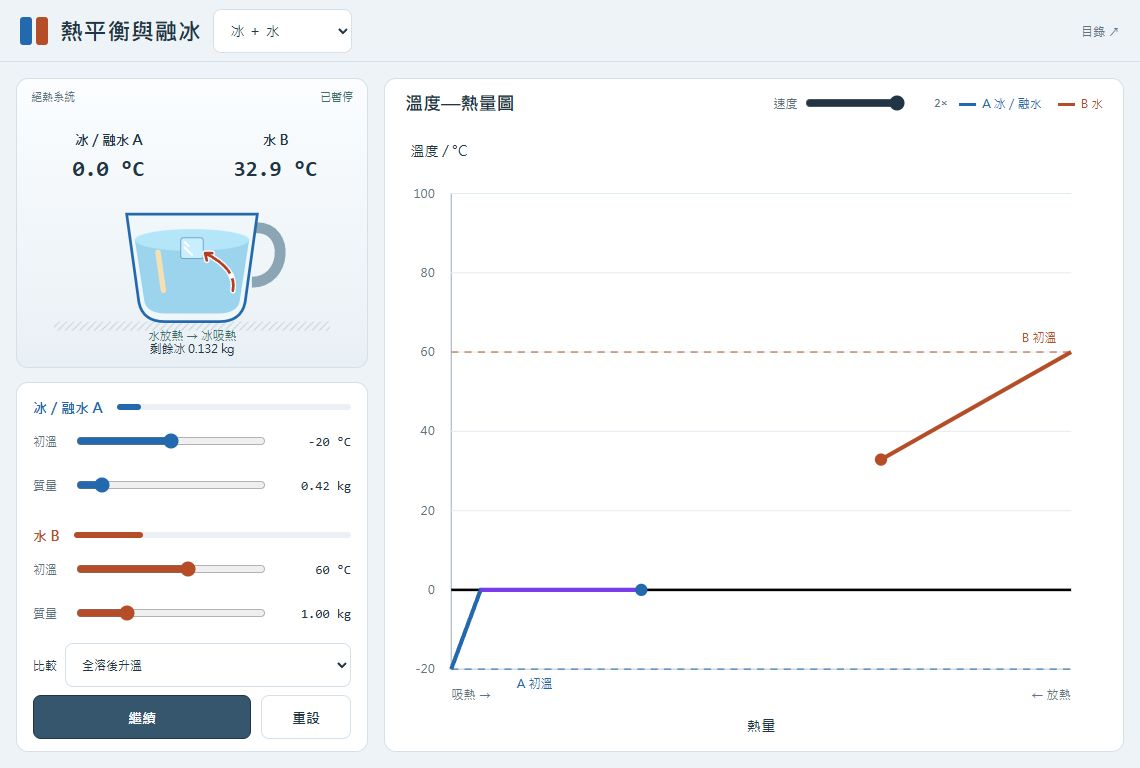
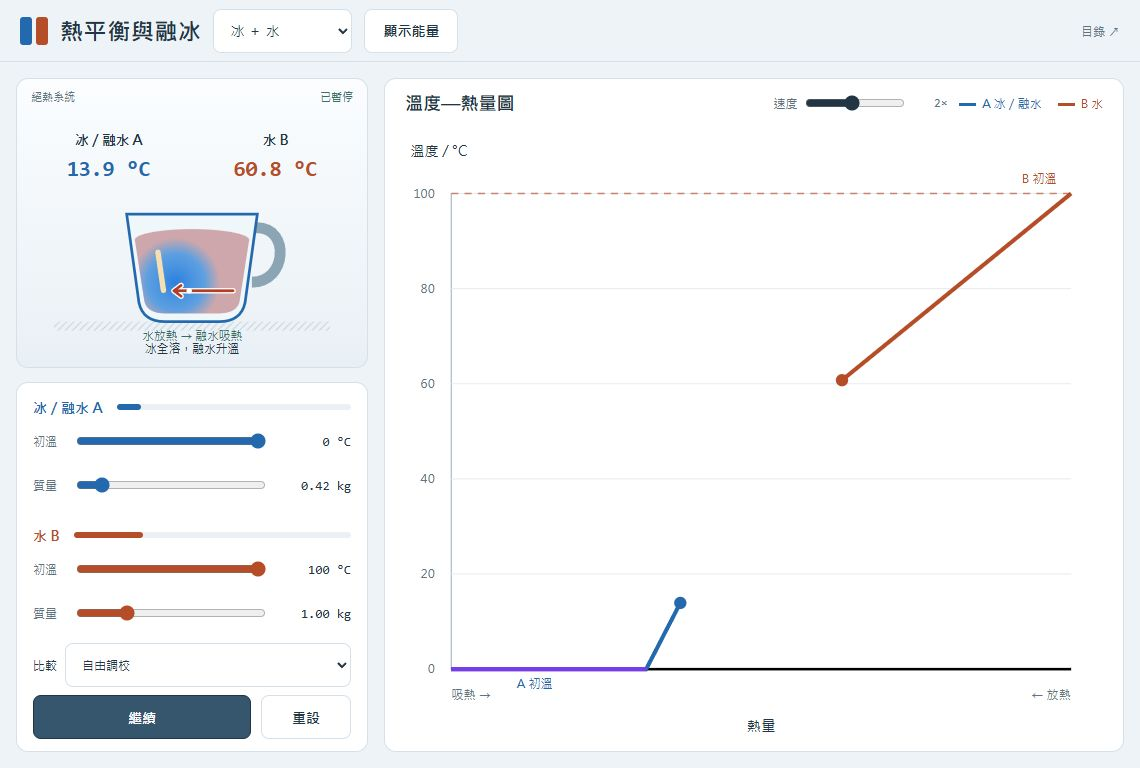
feat: visualize meltwater and energy in ice scenarios

diff --git a/thermal-equilibrium/app.js b/thermal-equilibrium/app.js
@@ -4,7 +4,7 @@
   const $ = id => document.getElementById(id);
   const fields = ['initialA', 'massA', 'initialB', 'massB'];
   const defaults = Object.fromEntries(fields.map(id => [id, $(id).value]));
-  const state = { config: null, time: 0, started: false, running: false, previous: null };
+  const state = { config: null, time: 0, started: false, running: false, previous: null, showEnergy: false };
   let frame = 0;
   let axisMinimum = 0;
   const x = (side, fraction) => side === 'A' ? 64 + 303 * fraction : 670 - 303 * fraction;
@@ -21,6 +21,7 @@
     $('initialA').value = ice ? Math.min(0, initialA) : Math.max(0, initialA);
     axisMinimum = Math.min(0, Number($('initialA').value));
     $('scenarioRow').hidden = !ice;
+    $('toggleEnergy').toggleAttribute('hidden', !ice);
     state.config = create({ ...Object.fromEntries(fields.map(id => [id, Number($(id).value)])),
       ice, specificA: ice ? WATER_SPECIFIC : different ? TEA_SPECIFIC : ALUMINIUM_SPECIFIC,
       specificB: ice ? WATER_SPECIFIC : different ? LEMON_SPECIFIC : ALUMINIUM_SPECIFIC });
@@ -48,8 +49,8 @@
     $('iceInLiquid').toggleAttribute('hidden', !ice);
     $('flowLabel').setAttribute('y', ice ? 250 : 103);
     const waterColor = $('materialMode').value === 'ice-water';
-    $('tea').querySelector('path[fill="#b17b3c"]').style.fill = waterColor ? '#9dd4ed' : '#b17b3c';
-    $('tea').querySelector('ellipse').style.fill = waterColor ? '#b5e5f8' : '#cb9850';
+    $('liquidBody').style.fill = waterColor ? '#9dd4ed' : '#b17b3c';
+    $('liquidSurface').style.fill = waterColor ? '#b5e5f8' : '#cb9850';
     let grid = '<text class="axis-title" x="24" y="28">溫度 / °C</text>' +
       '<path d="M64 65V530H670" fill="none" stroke="#9cacb8"/>' +
       '<text x="64" y="559">吸熱 →</text><text x="670" y="559" text-anchor="end">← 放熱</text>' +
@@ -74,8 +75,21 @@
     const totalIce = sample.remainingIce + sample.frozenMass;
     const equilibriumX = 367, equilibriumY = y(config.equilibrium);
     const fraction = config.equilibriumEnergy === 0 ? 1 : state.started ? sample.transferFraction : 0;
+    $('energySummary').toggleAttribute('hidden', !config.ice || !state.showEnergy || !done);
+    // 由初始條件計算到 0°C 的能量，不使用本輪實際傳熱量；兩條共用比例尺。
+    const energyScale = Math.max(config.warmingEnergy + config.meltingEnergy, config.coolingEnergy, 1);
     for (const side of ['A', 'B']) {
       const temperature = sample['temperature' + side];
+      const sensible = side === 'A' ? config.warmingEnergy : config.coolingEnergy;
+      const latent = side === 'A' ? config.meltingEnergy : 0;
+      const total = sensible + latent;
+      const liquid = $('materialMode').value === 'ice-tea' ? '茶' : '水';
+      $('energyName' + side).textContent = side === 'A' ? '冰升至 0°C 並全溶所需' : liquid + '降至 0°C 可放出';
+      $('energyTotal' + side).textContent = (total / 1000).toFixed(2) + ' kJ';
+      $('energySensible' + side).style.width = (100 * sensible / energyScale) + '%';
+      $('energyLatent' + side).style.width = (100 * latent / energyScale) + '%';
+      $('energyRow' + side).setAttribute('aria-label', $('energyName' + side).textContent + ' ' + $('energyTotal' + side).textContent +
+        (side === 'A' ? '；升至 0°C ' + (sensible / 1000).toFixed(2) + ' kJ；全部融化 ' + (latent / 1000).toFixed(2) + ' kJ' : ''));
       $('temperature' + side).textContent = temperature.toFixed(1) + ' °C';
       const width = 72 * Math.cbrt(config['mass' + side]);
       const height = 67 * Math.cbrt(config['mass' + side]);
@@ -89,11 +103,13 @@
       const start = 'M' + x(side, 0) + ',' + y(config['initial' + side]);
       let kink = '';
       let plateau = '';
+      let changing = false;
       if (config.ice && config.equilibriumEnergy > 0) {
         const breaks = side === 'A' ? [config.warmingEnergy, config.warmingEnergy + config.meltingEnergy] :
           [config.coolingEnergy, config.coolingEnergy + config.massB * FUSION_LATENT];
         const phaseStart = breaks[0] / config.equilibriumEnergy;
         const phaseEnd = Math.min(fraction, breaks[1] / config.equilibriumEnergy);
+        changing = fraction > 0 && fraction < 1 && fraction >= phaseStart && fraction < breaks[1] / config.equilibriumEnergy;
         if (phaseEnd > phaseStart) {
           plateau = 'M' + x(side, phaseStart) + ',' + y(0) + 'L' + x(side, phaseEnd) + ',' + y(0);
         }
@@ -107,13 +123,31 @@
       }
       $('curve' + side).setAttribute('d', config.equilibriumEnergy === 0 ? '' : start + kink + 'L' + x(side, fraction) + ',' + y(temperature));
       $('phaseCurve' + side).setAttribute('d', plateau);
+      const color = done ? '#376f68' : changing ? '#7c3aed' : side === 'A' ? '#2468ad' : '#b64d29';
+      $('point' + side).setAttribute('fill', color);
+      $('temperature' + side).style.fill = color;
       $('point' + side).setAttribute('cx', x(side, fraction));
       $('point' + side).setAttribute('cy', y(temperature));
       for (const key of ['y1', 'y2']) $('initialGuide' + side).setAttribute(key, y(config['initial' + side]));
       $('initialGuideLabel' + side).setAttribute('y', y(config['initial' + side]) + (side === 'A' ? 18 : -10));
     }
+    $('equilibriumTemperatures').toggleAttribute('hidden', !done);
+    const meltVisible = config.ice && state.started && !done && sample.meltedMass > 1e-10 && sample.temperatureB - sample.temperatureA > 1e-6;
+    $('meltWater').toggleAttribute('hidden', !meltVisible);
     if (config.ice) {
       $('tea').setAttribute('transform', 'translate(180 230) scale(1.5)');
+      // 融水量控制色區大小，溫差控制對比；只示意溫度區域，不模擬流場。
+      const meltProgress = sample.meltedMass / config.massA;
+      const liquidMass = sample.meltedMass + config.massB - sample.frozenMass;
+      const radius = 60 * Math.sqrt(sample.meltedMass / Math.max(liquidMass, 1e-10));
+      for (const [key, value] of Object.entries({ cx: -12 * meltProgress, cy: -54 + 25 * meltProgress, rx: radius, ry: radius })) {
+        $('meltWaterCloud').setAttribute(key, value);
+      }
+      $('meltWater').setAttribute('opacity', Math.min(1, Math.max(0, sample.temperatureB - sample.temperatureA) / 20));
+      if ($('materialMode').value === 'ice-water') {
+        $('liquidBody').style.fill = temperatureColor(sample.temperatureB);
+        $('liquidSurface').style.fill = temperatureColor(sample.temperatureB);
+      }
       $('iceSolid').toggleAttribute('hidden', totalIce < 1e-10);
       const scale = Math.min(1.1, .9 * Math.cbrt(totalIce));
       const drop = sample.contactFraction * sample.contactFraction;
@@ -136,17 +170,20 @@
     $('equilibriumLabel').textContent = '熱平衡 ' + config.equilibrium.toFixed(1) + ' °C';
     $('chartDescription').textContent = 'A 從左向右吸熱，B 從右向左放熱降溫。已轉移 ' + transferredKJ.toFixed(2) + ' kJ；A 為 ' + sample.temperatureA.toFixed(1) + ' °C，B 為 ' + sample.temperatureB.toFixed(1) + ' °C。' + (config.ice ? $('phaseLabel').textContent + '。' : '') + (done ? '熱平衡溫度為 ' + config.equilibrium.toFixed(1) + ' °C。' : '');
     const flowVisible = state.started && !contacting && !done && config.equilibriumEnergy > 0;
-    $('flow').toggleAttribute('hidden', !flowVisible || (config.ice && totalIce < 1e-10));
+    $('flow').toggleAttribute('hidden', !flowVisible);
     const direction = Math.sign(config.difference);
     let flowPath = direction > 0 ? 'M135 184H225M221 180L225 184L221 188' : 'M225 184H135M139 180L135 184L139 188';
     if (config.ice) {
       const scale = Math.min(1.1, .9 * Math.cbrt(totalIce));
-      const endX = 180 + 27 * scale + 2, endY = 149 + 12 * scale;
-      flowPath = 'M225 196Q230 172 ' + endX + ' ' + endY +
-        'M' + (endX + 2) + ' ' + (endY + 8) + 'L' + endX + ' ' + endY + 'L' + (endX + 8) + ' ' + endY;
+      const hasIce = totalIce > 1e-10;
+      const endX = hasIce ? 180 + 27 * scale + 2 : 160, endY = hasIce ? 149 + 12 * scale : 196;
+      const controlY = hasIce ? 172 : 196;
+      flowPath = 'M225 196Q230 ' + controlY + ' ' + endX + ' ' + endY + (hasIce ?
+        'M' + (endX + 2) + ' ' + (endY + 8) + 'L' + endX + ' ' + endY + 'L' + (endX + 8) + ' ' + endY :
+        'M168 190L160 196L168 202');
       const pulse = (sample.transferFraction * 12) % 1, rest = 1 - pulse;
       $('flowDot').setAttribute('cx', rest * rest * 225 + 2 * rest * pulse * 230 + pulse * pulse * endX);
-      $('flowDot').setAttribute('cy', rest * rest * 196 + 2 * rest * pulse * 172 + pulse * pulse * endY);
+      $('flowDot').setAttribute('cy', rest * rest * 196 + 2 * rest * pulse * controlY + pulse * pulse * endY);
     } else {
       $('flowDot').setAttribute('cx', 180 + direction * (-39 + ((state.time - CONTACT_SECONDS) / 2 % 1) * 78));
       $('flowDot').setAttribute('cy', 184);
@@ -159,7 +196,8 @@
     const liquidName = $('materialMode').value === 'ice-tea' ? '茶' : '水';
     $('flowLabel').textContent = !state.started || contacting ? '' : done ? '沒有淨熱流' : config.ice ?
       liquidName + '放熱 → ' + (totalIce > 1e-10 ? '冰吸熱' : '融水吸熱') : direction > 0 ? 'A → B' : 'B → A';
-    $('sceneDescription').textContent = (config.ice ? '冰放入同一杯液體，杯內冰量跟隨融化或凝固改變。' : '') + 'A 為 ' + sample.temperatureA.toFixed(1) + ' °C，B 為 ' + sample.temperatureB.toFixed(1) + ' °C。' + ($('flowLabel').textContent ? $('flowLabel').textContent + '。' : '');
+    $('sceneDescription').textContent = (config.ice ? '冰放入同一杯液體，杯內冰量跟隨融化或凝固改變。' : '') +
+      (meltVisible ? '柔邊藍色色區代表較冷的融水 A。' : '') + 'A 為 ' + sample.temperatureA.toFixed(1) + ' °C，B 為 ' + sample.temperatureB.toFixed(1) + ' °C。' + ($('flowLabel').textContent ? $('flowLabel').textContent + '。' : '');
     $('status').textContent = !state.started ? config.ice ? '準備放入冰' : '未接觸' : done ? '熱平衡' : !state.running ? '已暫停' : contacting ? config.ice ? '放入冰中' : '靠近中' : '傳熱中';
     $('play').textContent = done ? '重播' : state.running ? '暫停' : state.started ? '繼續' : '播放';
   }
@@ -182,6 +220,11 @@
     cancelAnimationFrame(frame);
     render();
     if (state.running) frame = requestAnimationFrame(tick);
+  });
+  $('toggleEnergy').addEventListener('click', () => {
+    state.showEnergy = !state.showEnergy;
+    $('toggleEnergy').setAttribute('aria-pressed', String(state.showEnergy));
+    render();
   });
   fields.forEach(id => $(id).addEventListener('input', () => {
     $('scenario').value = 'free';

diff --git a/thermal-equilibrium/physics-check.js b/thermal-equilibrium/physics-check.js
@@ -149,30 +149,122 @@ const { runInNewContext } = require('node:vm');
 const appSource = readFileSync(require.resolve('./app.js'), 'utf8');
 function graphAt(config, time) {
   const elements = new Map();
+  let tick;
   const element = id => {
     if (!elements.has(id)) elements.set(id, { value: '', min: 0, max: 4, style: {}, attributes: {}, handlers: {},
       setAttribute(key, value) { this.attributes[key] = String(value); },
-      toggleAttribute() {}, addEventListener(event, handler) { this.handlers[event] = handler; },
+      toggleAttribute(key, on) { if (on) this.attributes[key] = ''; else delete this.attributes[key]; },
+      addEventListener(event, handler) { this.handlers[event] = handler; },
       querySelector() { return element('liquidFill'); } });
     return elements.get(id);
   };
   for (const id of ['initialA', 'initialB', 'massA', 'massB']) element(id).value = String(config[id]);
   element('materialMode').value = config.ice ? 'ice-water' : 'same';
+  element('speed').value = '1';
   element('zeroAxis').attributes.stroke = 'black';
   runInNewContext(appSource, { ThermalEquilibrium: { ...require('./model.js'), create: () => config, at: () => at(config, time) },
-    document: { getElementById: element, addEventListener() {} }, cancelAnimationFrame() {}, requestAnimationFrame() {} });
+    document: { getElementById: element, addEventListener() {} }, cancelAnimationFrame() {}, requestAnimationFrame(callback) { tick = callback; } });
   element('play').handlers.click();
+  if (time >= config.duration) {
+    tick(0);
+    for (let now = 100; now <= Math.ceil((config.duration + .1) * 1000); now += 100) tick(now);
+  }
   assert.equal(element('zeroAxis').attributes.stroke, 'black');
-  return id => element(id).attributes.d;
+  const read = (id, key = 'd') => key === 'text' ? element(id).textContent : element(id).style[key] ?? element(id).attributes[key];
+  read.click = id => element(id).handlers.click();
+  return read;
 }
 assert.equal(graphAt(warm, CONTACT_SECONDS + .01)('phaseCurveA'), '');
 let graph = graphAt(warm, CONTACT_SECONDS + PLAYBACK_SECONDS * 25000 / warm.equilibriumEnergy);
 assert.equal(graph('phaseCurveA'), `M${64 + 303 * 17640 / warm.equilibriumEnergy},452.5L${64 + 303 * 25000 / warm.equilibriumEnergy},452.5`);
 assert.equal(graph('phaseCurveB'), '');
+assert.equal(graph('pointA', 'fill'), '#7c3aed');
+assert.equal(graph('temperatureA', 'fill'), '#7c3aed');
+assert.equal(graph('pointB', 'fill'), '#b64d29');
+assert.equal(graph('equilibriumTemperatures', 'hidden'), '');
 graph = graphAt(warm, warm.duration);
 assert.equal(graph('phaseCurveA'), `M${64 + 303 * 17640 / warm.equilibriumEnergy},452.5L${64 + 303 * 157920 / warm.equilibriumEnergy},452.5`);
+assert.equal(graph('equilibriumTemperatures', 'hidden'), undefined);
+assert.equal(graph('temperatureA', 'fill'), '#376f68');
+assert.equal(graph('temperatureB', 'fill'), '#376f68');
+assert.equal(graph('flow', 'hidden'), '');
 graph = graphAt(freeze, CONTACT_SECONDS + PLAYBACK_SECONDS * 20000 / freeze.equilibriumEnergy);
 assert.equal(graph('phaseCurveA'), '');
 assert.equal(graph('phaseCurveB'), `M${670 - 303 * 8400 / freeze.equilibriumEnergy},452.5L${670 - 303 * 20000 / freeze.equilibriumEnergy},452.5`);
+assert.equal(graph('pointB', 'fill'), '#7c3aed');
+assert.equal(graph('temperatureB', 'fill'), '#7c3aed');
+graph = graphAt(warm, CONTACT_SECONDS + PLAYBACK_SECONDS * 170000 / warm.equilibriumEnergy);
+assert.equal(graph('iceSolid', 'hidden'), '');
+assert.equal(graph('flow', 'hidden'), undefined);
+assert.match(graph('flowLine'), /L160 196/);
+assert.equal(graph('pointA', 'fill'), '#2468ad');
+graph = graphAt(cold, cold.duration);
+assert.equal(graph('iceSolid', 'hidden'), undefined);
+assert.equal(graph('flow', 'hidden'), '');
+assert.equal(graph('equilibriumTemperatures', 'hidden'), undefined);
 assert.equal(graphAt(create(base), 10)('phaseCurveA'), '');
+// 預設隱藏，只在開啟顯示且播放完成時出現；重播及重設收起結果。
+assert.equal(graph('energySummary', 'hidden'), '');
+graph.click('toggleEnergy');
+assert.equal(graph('toggleEnergy', 'aria-pressed'), 'true');
+assert.equal(graph('energySummary', 'hidden'), undefined);
+assert.equal(graph('energyTotalA', 'text'), '376.00 kJ');
+assert.equal(graph('energyTotalB', 'text'), '84.00 kJ');
+close(parseFloat(graph('energySensibleA', 'width')), 100 * 42 / 376);
+close(parseFloat(graph('energyLatentA', 'width')), 100 * 334 / 376);
+close(parseFloat(graph('energySensibleB', 'width')), 100 * 84 / 376);
+graph.click('toggleEnergy');
+assert.equal(graph('energySummary', 'hidden'), '');
+graph.click('toggleEnergy');
+graph.click('play');
+assert.equal(graph('energySummary', 'hidden'), '');
+graph.click('reset');
+assert.equal(graph('energySummary', 'hidden'), '');
+graph = graphAt(partialFreeze, partialFreeze.duration);
+close(parseFloat(graph('energySensibleB', 'width')), 100 * 16.8 / 376);
+assert.equal(graph('energyLatentB', 'width'), '0%');
+assert.equal(graph('energyTotalB', 'text'), '16.80 kJ');
+graph = graphAt(warm, warm.duration);
+assert.equal(graph('energyTotalA', 'text'), '157.92 kJ');
+assert.equal(graph('energyTotalB', 'text'), '252.00 kJ');
+close(parseFloat(graph('energyLatentA', 'width')), 100 * 140280 / 252000);
+assert.equal(graph('energySensibleB', 'width'), '100%');
+// 臨界情況兩條等長；未播放完成的計算亦只依初始條件。
+graph = graphAt(critical, critical.duration);
+assert.equal(graph('energyTotalA', 'text'), '157.92 kJ');
+assert.equal(graph('energyTotalB', 'text'), '157.92 kJ');
+close(parseFloat(graph('energySensibleA', 'width')) + parseFloat(graph('energyLatentA', 'width')), 100);
+close(parseFloat(graph('energySensibleB', 'width')), 100);
+graph = graphAt(warm, CONTACT_SECONDS + 1);
+assert.equal(graph('energyTotalA', 'text'), '157.92 kJ');
+assert.equal(graph('energyTotalB', 'text'), '252.00 kJ');
+graph = graphAt(create({ ...iceBase, initialB: 0 }), CONTACT_SECONDS);
+assert.equal(graph('energyTotalA', 'text'), '140.28 kJ');
+assert.equal(graph('energyTotalB', 'text'), '0.00 kJ');
+assert.equal(graph('energySensibleA', 'width'), '0%');
+assert.equal(graph('energyLatentA', 'width'), '100%');
+assert.equal(graph('energyLatentB', 'width'), '0%');
+graph = graphAt(create(base), 100);
+assert.equal(graph('toggleEnergy', 'hidden'), '');
+graph.click('toggleEnergy');
+assert.equal(graph('energySummary', 'hidden'), '');
+// 融水色區由實際融水量與溫差驅動；冰全溶後保留，同溫後淡出。
+graph = graphAt(warm, CONTACT_SECONDS + PLAYBACK_SECONDS * 10000 / warm.equilibriumEnergy);
+assert.equal(graph('meltWater', 'hidden'), '');
+const quarterMelt = graphAt(warm, CONTACT_SECONDS + PLAYBACK_SECONDS * (warm.warmingEnergy + warm.meltingEnergy / 4) / warm.equilibriumEnergy);
+const halfMelt = graphAt(warm, CONTACT_SECONDS + PLAYBACK_SECONDS * (warm.warmingEnergy + warm.meltingEnergy / 2) / warm.equilibriumEnergy);
+assert.equal(quarterMelt('meltWater', 'hidden'), undefined);
+assert.ok(Number(halfMelt('meltWaterCloud', 'rx')) > Number(quarterMelt('meltWaterCloud', 'rx')));
+graph = graphAt(warm, CONTACT_SECONDS + PLAYBACK_SECONDS * 170000 / warm.equilibriumEnergy);
+assert.equal(graph('iceSolid', 'hidden'), '');
+assert.equal(graph('meltWater', 'hidden'), undefined);
+assert.equal(graph('flow', 'hidden'), undefined);
+const nearlyDone = graphAt(warm, warm.duration - .01);
+assert.ok(Number(nearlyDone('meltWater', 'opacity')) < Number(graph('meltWater', 'opacity')));
+graph.click('reset');
+assert.equal(graph('meltWater', 'hidden'), '');
+assert.equal(graphAt(warm, warm.duration)('meltWater', 'hidden'), '');
+assert.equal(graphAt(cold, cold.duration)('meltWater', 'hidden'), '');
+assert.equal(graphAt(partialFreeze, CONTACT_SECONDS + 10)('meltWater', 'hidden'), '');
+assert.equal(graphAt(create(base), 10)('meltWater', 'hidden'), '');
 console.log('通過：零下冰升溫、0°C 融冰平台、臨界全溶、融水升溫、液體結冰、低於 0°C 的平衡、質量與能量守恆及原有模式。');

diff --git a/thermal-equilibrium/index.html b/thermal-equilibrium/index.html
@@ -42,6 +42,14 @@ output{text-align:right;font:13px Consolas,monospace;white-space:nowrap}
 .actions{display:grid;grid-template-columns:1fr 90px;gap:10px}
 .primary{background:var(--ink);color:white;border-color:var(--ink)}.primary:hover{background:#36566d}
 .chart-panel{display:grid;grid-template-rows:48px minmax(0,1fr)}
+.chart-body{display:flex;flex-direction:column;min-height:0}
+.energy-summary{flex:none;padding:6px 20px 10px;border-bottom:1px solid var(--line)}
+.energy-row{display:grid;grid-template-columns:180px minmax(0,1fr) 100px;align-items:center;gap:12px;min-height:32px;font-size:12px}
+.energy-bar{display:flex;height:12px;background:#edf0f3;border-radius:3px;overflow:hidden}
+.energy-bar i{display:block;height:100%;flex-shrink:0}
+#energySensibleA{background:var(--a)}#energySensibleB{background:var(--b)}
+#energyLatentA,#energyLatentB{background:#7c3aed}
+#toggleEnergy[aria-pressed="true"]{background:var(--ink);color:white;border-color:var(--ink)}
 .scenario-row{display:flex;align-items:center;gap:8px;font-size:12px}.scenario-row select{flex:1;min-width:0}
 #phaseLabel{font-size:13px;fill:#376f68}
 .chart-head{display:flex;align-items:center;gap:12px;padding:0 20px}
@@ -50,7 +58,7 @@ output{text-align:right;font:13px Consolas,monospace;white-space:nowrap}
 .speed-control input{min-width:0;accent-color:var(--ink)}.speed-control output{font-size:12px}
 .legend{display:flex;gap:16px;font-size:12px}
 .legend span::before{content:"";display:inline-block;width:17px;height:3px;margin-right:6px;vertical-align:middle;background:currentColor}
-#chart{width:100%;height:100%;display:block;min-height:0}
+#chart{width:100%;height:100%;display:block;min-height:0;flex:1}
 #chart text{font:12px "Microsoft JhengHei",sans-serif;fill:var(--muted)}
 #chart .axis-title{font-size:14px;fill:var(--ink)}
 #chart .trace{fill:none;stroke-width:4}#chart #equilibriumLabel{font-size:14px;fill:#376f68}
@@ -69,15 +77,20 @@ output{text-align:right;font:13px Consolas,monospace;white-space:nowrap}
 </head>
 <body>
 <main class="app">
-<header class="topbar"><div class="mark" aria-hidden="true"><i></i><i></i></div><h1>熱平衡與融冰</h1><select id="materialMode" aria-label="A、B 的物質"><option value="ice-water">冰 ＋ 水</option><option value="ice-tea">冰 ＋ 茶</option><option value="same">鋁塊 ＋ 鋁塊</option><option value="different">茶 ＋ 檸檬</option></select><a href="../index.html">目錄 ↗</a></header>
+<header class="topbar"><div class="mark" aria-hidden="true"><i></i><i></i></div><h1>熱平衡與融冰</h1><select id="materialMode" aria-label="A、B 的物質"><option value="ice-water">冰 ＋ 水</option><option value="ice-tea">冰 ＋ 茶</option><option value="same">鋁塊 ＋ 鋁塊</option><option value="different">茶 ＋ 檸檬</option></select><button id="toggleEnergy" aria-pressed="false" aria-controls="energySummary" title="播放完成後顯示總能量">顯示能量</button><a href="../index.html">目錄 ↗</a></header>
 <div class="workspace">
 <div class="left">
 <section class="panel scene" aria-label="兩個物體的熱傳遞動畫">
 <div class="scene-head"><span>絕熱系統</span><span id="status" role="status">未接觸</span></div>
 <svg id="scene" viewBox="0 0 360 280" role="img" aria-labelledby="sceneDescription">
 <title id="sceneDescription">兩個鋁塊的即時溫度與淨熱流方向</title>
-<defs><pattern id="hatch" width="8" height="8" patternUnits="userSpaceOnUse"><path d="M0 8L8 0" stroke="#c3d1db"/></pattern></defs>
+<defs>
+<pattern id="hatch" width="8" height="8" patternUnits="userSpaceOnUse"><path d="M0 8L8 0" stroke="#c3d1db"/></pattern>
+<clipPath id="liquidClip"><use href="#liquidBody"/><use href="#liquidSurface"/></clipPath>
+<radialGradient id="meltWaterTint"><stop offset="0" stop-color="#247ee0" stop-opacity=".95"/><stop offset=".65" stop-color="#429eed" stop-opacity=".8"/><stop offset="1" stop-color="#429eed" stop-opacity="0"/></radialGradient>
+</defs>
 <text id="sceneNameA" x="88" y="35" class="body-name" text-anchor="middle">A</text><text id="sceneNameB" x="272" y="35" class="body-name" text-anchor="middle">B</text>
+<g id="equilibriumTemperatures" fill="#edf7f3" stroke="#376f68" stroke-width="2" hidden><rect x="16" y="45" width="144" height="36" rx="8"/><rect x="200" y="45" width="144" height="36" rx="8"/></g>
 <text id="temperatureA" x="88" y="69" class="temperature" text-anchor="middle">20.0 °C</text><text id="temperatureB" x="272" y="69" class="temperature" text-anchor="middle">80.0 °C</text>
 <text id="flowLabel" x="180" y="103" class="flow-label" text-anchor="middle"></text>
 <rect x="28" y="230" width="304" height="10" fill="url(#hatch)"/>
@@ -85,8 +98,9 @@ output{text-align:right;font:13px Consolas,monospace;white-space:nowrap}
 <g id="tea" hidden>
 <path d="M36-69H48C72-69 70-29 44-29" fill="none" stroke="#8ba5b5" stroke-width="8"/>
 <path d="M-48-79H48L39-14Q36 0 20 0H-20Q-36 0-39-14Z" fill="#eff7fa" stroke="#2468ad" stroke-width="2"/>
-<path d="M-42-60H42L35-15Q33-6 19-6H-19Q-33-6-35-15Z" fill="#b17b3c"/>
-<ellipse cx="0" cy="-60" rx="42" ry="8" fill="#cb9850"/>
+<path id="liquidBody" d="M-42-60H42L35-15Q33-6 19-6H-19Q-33-6-35-15Z" fill="#b17b3c"/>
+<ellipse id="liquidSurface" cx="0" cy="-60" rx="42" ry="8" fill="#cb9850"/>
+<g id="meltWater" clip-path="url(#liquidClip)" hidden><ellipse id="meltWaterCloud" fill="url(#meltWaterTint)"/></g>
 <path d="M-25-51L-21-23" fill="none" stroke="#f6dfb3" stroke-width="4" stroke-linecap="round"/>
 </g>
 <g id="lemon" hidden>
@@ -117,7 +131,12 @@ output{text-align:right;font:13px Consolas,monospace;white-space:nowrap}
 </section>
 </div>
 <section class="panel chart-panel" aria-labelledby="chartTitle">
-<div class="chart-head"><h2 id="chartTitle">溫度—熱量圖</h2><div class="speed-control"><label for="speed">速度</label><input id="speed" type="range" min="0.25" max="2" step="0.25" value="1" aria-label="模擬播放速度" aria-valuetext="1 倍速"><output id="speedValue" for="speed">1×</output></div><div class="legend"><span id="legendA" class="a">A</span><span id="legendB" class="b">B</span></div></div>
+<div class="chart-head"><h2 id="chartTitle">溫度—熱量圖</h2><div class="speed-control"><label for="speed">速度</label><input id="speed" type="range" min="0.25" max="4" step="0.25" value="2" aria-label="模擬播放速度" aria-valuetext="2 倍速"><output id="speedValue" for="speed">2×</output></div><div class="legend"><span id="legendA" class="a">A</span><span id="legendB" class="b">B</span></div></div>
+<div class="chart-body">
+<div id="energySummary" class="energy-summary" role="group" aria-label="降至 0°C 可放出的能量與冰升至 0°C 並全溶所需能量" hidden>
+<div id="energyRowA" class="energy-row" role="img"><span id="energyNameA"></span><div class="energy-bar" aria-hidden="true"><i id="energySensibleA"></i><i id="energyLatentA"></i></div><output id="energyTotalA"></output></div>
+<div id="energyRowB" class="energy-row" role="img"><span id="energyNameB"></span><div class="energy-bar" aria-hidden="true"><i id="energySensibleB"></i><i id="energyLatentB"></i></div><output id="energyTotalB"></output></div>
+</div>
 <svg id="chart" viewBox="0 0 720 610" role="img" aria-labelledby="chartDescription">
 <title id="chartDescription">冷物體由左下升溫，熱物體由右上降溫，兩條溫度線在熱平衡時相遇</title><g id="grid"></g>
 <line id="initialGuideA" class="temperature-guide" x1="64" x2="670" stroke="#2468ad"/>
@@ -130,6 +149,7 @@ output{text-align:right;font:13px Consolas,monospace;white-space:nowrap}
 <circle id="pointA" r="6" fill="#2468ad"/><circle id="pointB" r="6" fill="#b64d29"/>
 <circle id="meetingPoint" r="7" fill="#376f68" stroke="white" stroke-width="2" hidden/><text id="equilibriumLabel" hidden>熱平衡</text>
 </svg>
+</div>
 </section>
 </div>
 </main>
